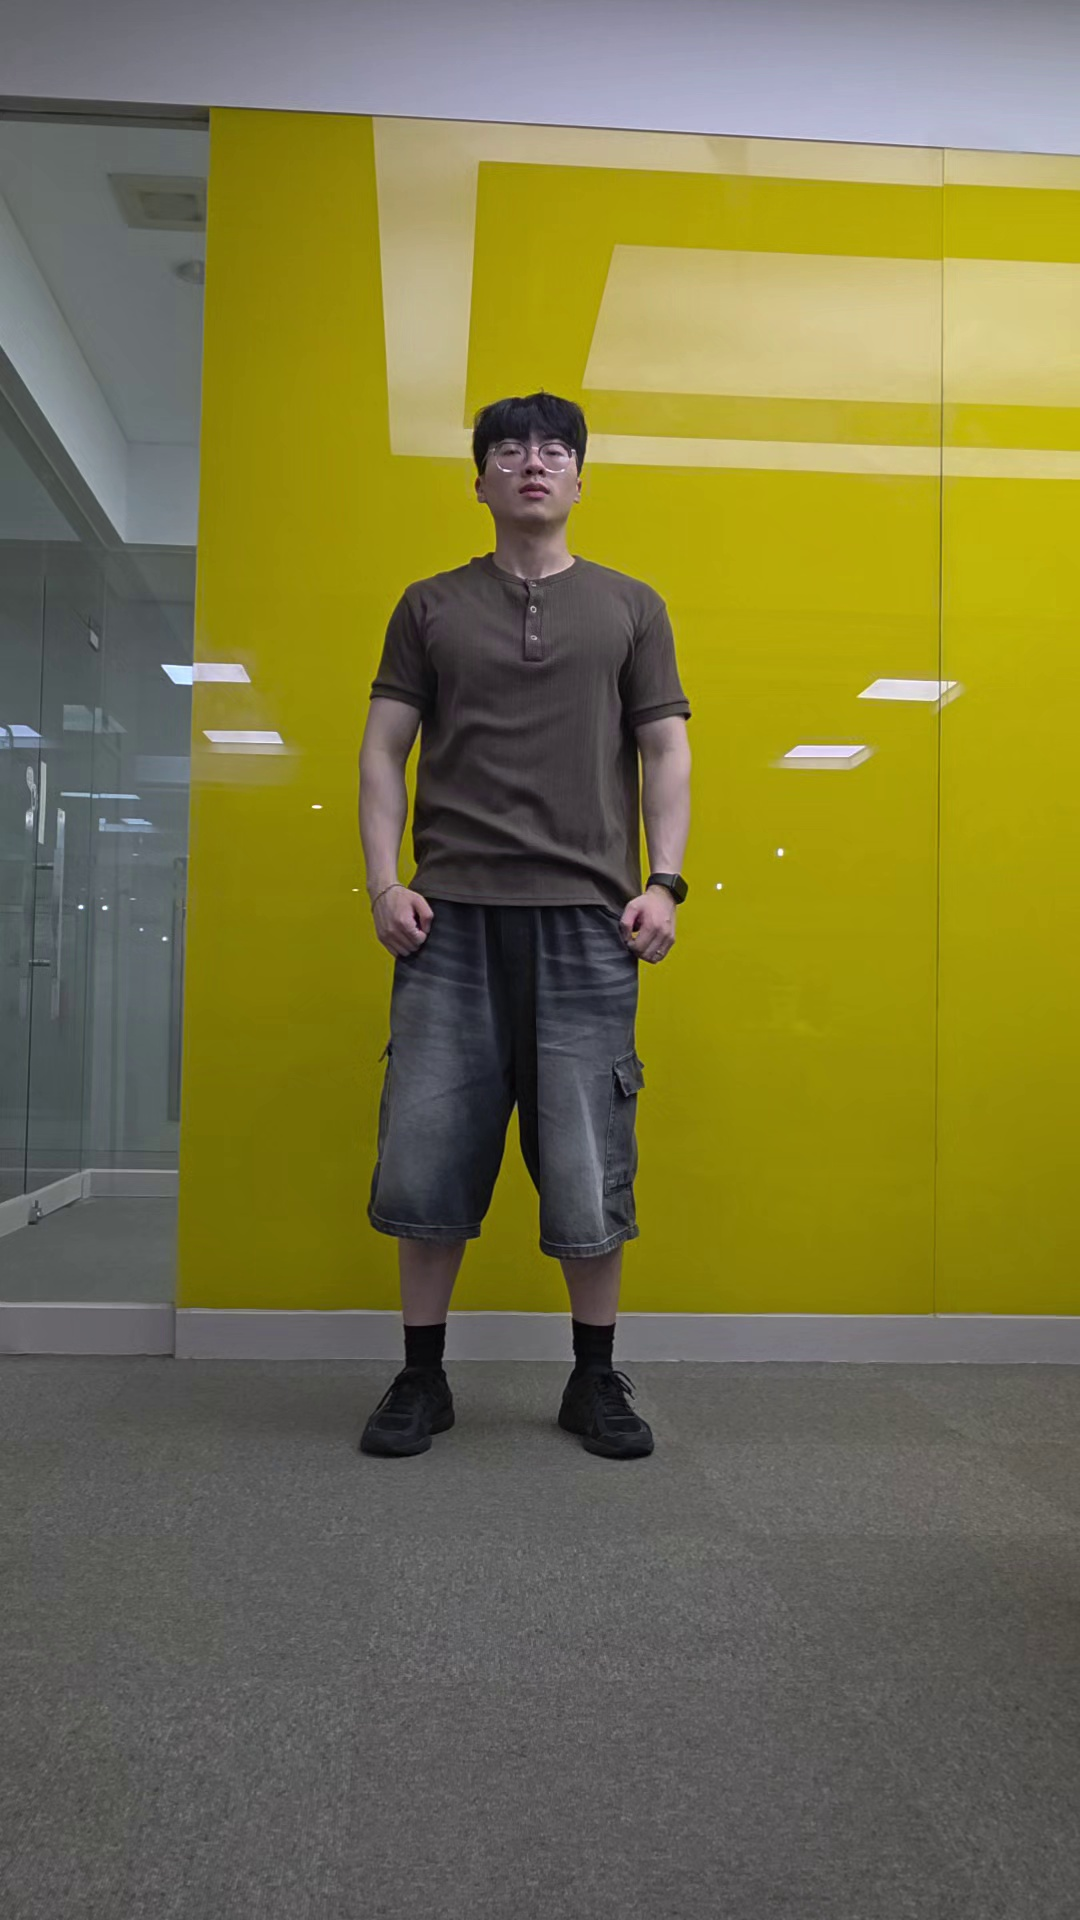
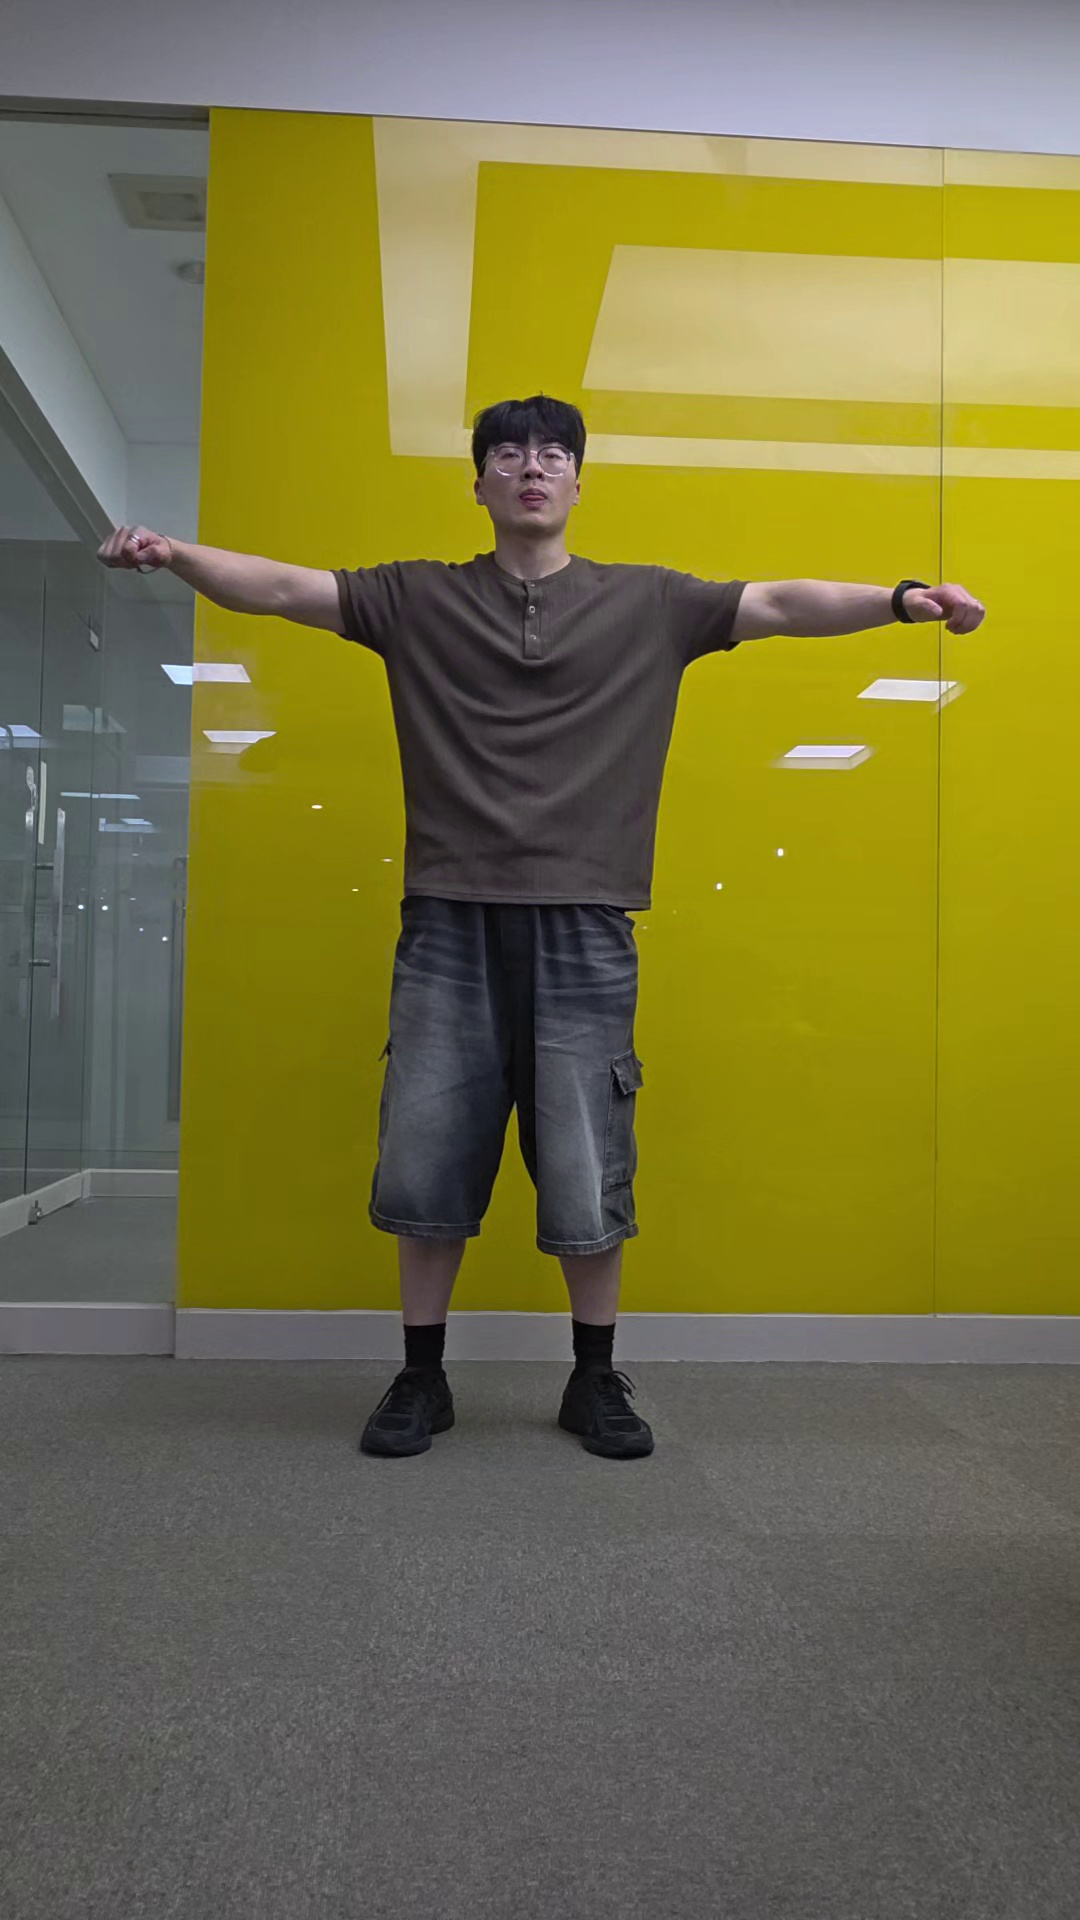
최종 데이터셋 수정: _extract.py(도구 수정), 숄더프레스, 레터럴레이즈 방향 오류 수정

diff --git a/ai_pose_project/test_images/_extract.py b/ai_pose_project/test_images/_extract.py
@@ -61,21 +61,34 @@ ACTIVE_EXTREME = {
 # 폼 검사가 DOWN 단계 게이팅인 운동 (manifest expected_stage 채움용)
 DOWN_GATED = {"squat", "pushup", "lunge"}
 
+# good_up(= 운동의 '올라간/편' 자세)이 primary 각의 high인지 low인지.
+#   active 와 별개다: 프레스/레이즈는 올린 게 active(=good_up=high)이지만,
+#   풀업/싯업은 끌어올림/일어남(굽힘=작은 각)이 '위(good_up)'이자 active.
+#   스쿼트/런지/푸시업은 서거나 편 상태(큰 각)가 good_up.
+GOOD_UP_EXTREME = {
+    "squat": "high", "pushup": "high", "lunge": "high",
+    "lateralraise": "high", "shoulderpress": "high",
+    "pullup": "low", "situp": "low",
+}
+
 
 def derive_expected(exercise: str, label: str) -> dict:
     """라벨 → (expected_posture, expected_issue_key, expected_stage, pick) 추론.
 
-    pick = "low"/"high": 어느 극점 프레임을 뽑을지. good_up 은 active 의 반대 극점.
+    pick = "low"/"high": 어느 극점 프레임을 뽑을지.
+      good_up  → GOOD_UP_EXTREME (운동의 '위' 자세), good_down → 그 반대.
+      fault    → ACTIVE_EXTREME (폼 검사가 의미있는 작용 자세).
     """
-    active = ACTIVE_EXTREME.get(exercise, "low")
-    opposite = "high" if active == "low" else "low"
+    up = GOOD_UP_EXTREME.get(exercise, "high")
+    down = "low" if up == "high" else "high"
     if label == "good_up":
-        return {"posture": "good", "issue_key": "", "stage": "UP", "pick": opposite}
+        return {"posture": "good", "issue_key": "", "stage": "UP", "pick": up}
     if label == "good_down":
-        return {"posture": "good", "issue_key": "", "stage": "DOWN", "pick": active}
+        return {"posture": "good", "issue_key": "", "stage": "DOWN", "pick": down}
     # fault 라벨
     stage = "DOWN" if exercise in DOWN_GATED else ""
-    return {"posture": "bad", "issue_key": f"{exercise}.{label}", "stage": stage, "pick": active}
+    return {"posture": "bad", "issue_key": f"{exercise}.{label}",
+            "stage": stage, "pick": ACTIVE_EXTREME.get(exercise, "low")}
 
 
 def rotate_frame(frame, deg: int):

diff --git a/CLAUDE.md b/CLAUDE.md
@@ -592,6 +592,16 @@ gcloud run services logs read moduflow-ai --region=asia-northeast3 --project=mod
 - 데이터: squat good_up 8 / good_down 3(m1) / trunk_lean 3(m3) / left_knee_forward 1. `test_dataset.py` **23/23 PASS**.
 - **한계**: 영상 2개(소표본) 기반이라 `70°`·`0.8` 은 잠정값. 데이터가 늘면 재조정. 발끝 방향 cue 는 발이 카메라쪽으로 살짝 틀어지면 수평 투영이 ~0 이 돼 폐기(앞 절 참고), 깊이·무릎-엉덩이 기반이 안정적.
 
+### 14주차 m1 전종목 데이터 + 분석기 3건 튜닝 (실촬영 기반)
+
+m1(박준우) 영상 12개(squat/pushup/lunge/lateralraise/shoulderpress)로 데이터셋을 채우며 첫 다종목 실데이터를 검증, 분석기 오탐 3건을 실측 기반으로 수정했다. 검증 **69/69 PASS**.
+
+- **pushup `camera_angle`: 비율 → 절대 어깨너비**. 기존 `shoulderX/torsoY > 0.4` 는 푸시업의 수평 몸통에서 `torsoY`(어깨-엉덩이 세로거리)가 0.006까지 작아져 비율이 폭발(6.05) → 측면 푸시업을 정면으로 오탐(다른 검사까지 가림). **`shoulderX > PUSHUP_CAMERA_FRONTAL_SHOULDER_X(0.08)`** 로 교체(측면 0.008~0.034 / 정면 ~0.144 로 절대값이 깔끔히 분리). `PUSHUP_CAMERA_FRONTAL_RATIO` 제거.
+- **lateralraise `asymmetry`: 20° → 10°**. 실측 정상 좌우차 6° / 비대칭 15° 사이로 하향(`LATERAL_RAISE_ASYMMETRY_DEG`). shoulderpress(20°)는 그대로.
+- **lunge `front_knee_forward` margin: 0.05 → 0.13** (`LUNGE_KNEE_FORWARD_MARGIN`). 정상 런지도 앞무릎이 발목보다 약간 앞(0.09)이라 0.05면 good 오탐 → 정상 0.09 / 결함 0.18 사이로 상향. (squat 처럼 깊이 교란이 있으나 앞다리 식별이 맞으면 magnitude로 분리됨)
+- **촬영 이슈로 재촬영 필요(분석기 아님)**: `squat knee_forward`(rock-bottom 35°라 무릎 과전방이 정상 → 결함 분리 불가), `pushup hip_sag`(처짐 0.021 이 기존 정상 good_down 0.025 보다 약함 → 임계값 못 낮춤). hip_pike 도 솟음 약한 경계 프레임 1장은 제외.
+- **한계**: 단일 인원(m1) 데이터라 임계값은 여전히 잠정. m2~m4 추가 시 재확인 권장.
+
 ### 운동 종목 확장: 사레레 / 숄더프레스 / 풀업 / 싯업
 
 기존 3종(squat/pushup/lunge)에 상체·코어 4종 추가 → `EXERCISE_REGISTRY` 7종. Strategy+Registry 구조라 분석기 클래스 + 등록 + 메시지만 추가하면 rep 카운팅·세션 관리가 자동 동작.

diff --git a/ai_pose_project/test_images/README.md b/ai_pose_project/test_images/README.md
@@ -143,7 +143,7 @@ test_images/
   ```
   저장 시 분석기 예측을 `✓/✗`로 함께 출력(임계값 튜닝 힌트, 라벨 판정용 아님). 세로 폰 영상은 `--rotate 90`.
 
-## 진행 현황 (2026-06-10)
+## 진행 현황 (2026-06-10, m1 전종목 추가 후 — test_dataset 69/69 PASS)
 
 | 운동 | 라벨 | 보유 표본 | 목표 |
 |---|---|---|---|
@@ -151,25 +151,25 @@ test_images/
 | squat | good_down | 3 | 4 |
 | squat | left_knee_forward | 1 | 4 |
 | squat | right_knee_forward | 0 | 4 |
-| squat | trunk_lean | 3 | 4 |
-| squat | knee_asymmetry | 0 | 4 |
-| pushup | good_up | 1 | 4 |
-| pushup | good_down | 1 | 4 |
+| squat | trunk_lean | 6 | 4 |
+| squat | knee_asymmetry | 3 | 4 |
+| pushup | good_up | 4 | 4 |
+| pushup | good_down | 4 | 4 |
 | pushup | hip_sag | 1 | 4 |
-| pushup | hip_pike | 1 | 4 |
+| pushup | hip_pike | 2 | 4 |
 | pushup | camera_angle | 1 | 1 |
-| lunge | good_up | 0 | 4 |
-| lunge | good_down | 0 | 4 |
-| lunge | front_knee_forward | 0 | 4 |
-| lunge | trunk_lean | 0 | 4 |
+| lunge | good_up | 3 | 4 |
+| lunge | good_down | 3 | 4 |
+| lunge | front_knee_forward | 3 | 4 |
+| lunge | trunk_lean | 3 | 4 |
 | lunge | unknown_front_leg | 0 | 2 |
-| lateralraise | good_up | 0 | 4 |
-| lateralraise | good_down | 0 | 4 |
-| lateralraise | asymmetry | 0 | 4 |
-| lateralraise | arms_too_high | 0 | 4 |
-| shoulderpress | good_up | 0 | 4 |
-| shoulderpress | good_down | 0 | 4 |
-| shoulderpress | asymmetry | 0 | 4 |
+| lateralraise | good_up | 3 | 4 |
+| lateralraise | good_down | 3 | 4 |
+| lateralraise | asymmetry | 3 | 4 |
+| lateralraise | arms_too_high | 3 | 4 |
+| shoulderpress | good_up | 3 | 4 |
+| shoulderpress | good_down | 3 | 4 |
+| shoulderpress | asymmetry | 3 | 4 |
 | pullup | good_up | 0 | 4 |
 | pullup | good_down | 0 | 4 |
 | pullup | asymmetry | 0 | 4 |
@@ -177,4 +177,5 @@ test_images/
 | situp | good_down | 0 | 4 |
 | _generic | not_detected | 3 | 3 |
 
-> trunk_lean 잠정값(`TRUNK_LEAN_RATIO=0.5`)·신규 4종 임계값은 미튜닝 — 위 표본이 채워지면 `test_dataset.py`로 검증·튜닝한다.
+> m1(박준우) 전종목 1차 촬영 반영. 임계값은 m1 단일 인원 기준이라 잠정 — m2~m4 추가 시 재확인.
+> **재촬영 대기**: `squat/knee_forward`(rock-bottom이라 결함 분리 불가 — 중간 깊이 필요), `pushup/hip_sag`(처짐이 약함 — 더 확실히). `pullup`·`situp`·`right_knee_forward`·`lunge/unknown_front_leg` 는 표본 0.
